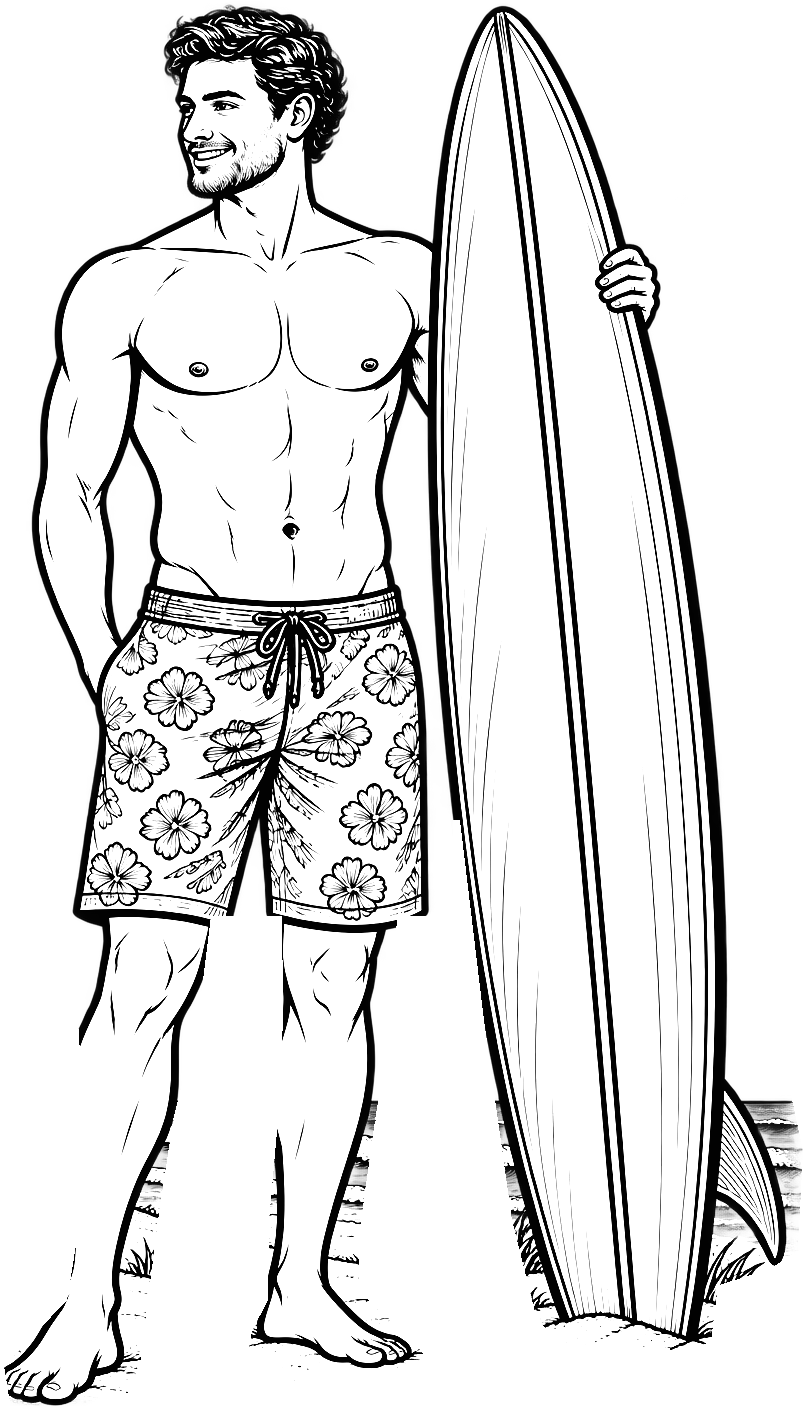
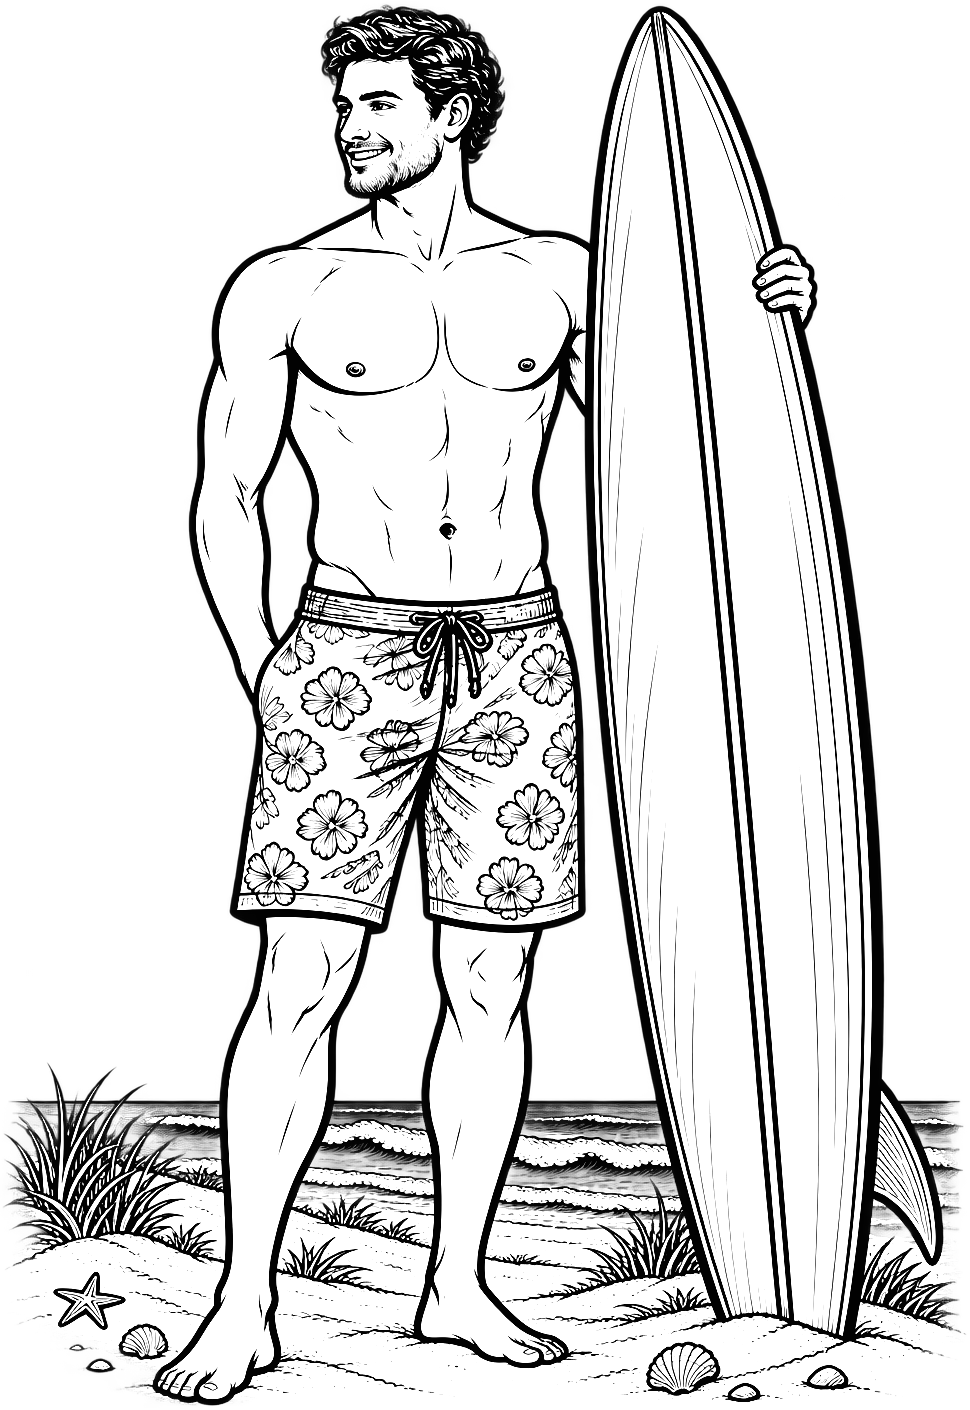
feat: the surfer and lifeguard stand drawn whole, stand upright
Both drawings are used whole from Codex's PNGs (their beach included),
the surfer wider beside the knob, and the stand loses the old stencil's
8° tilt.

Claude-Session: https://claude.ai/code/session_01HZSsdkQTuoy9rc1cHMC1HG

Changed region(s): [[0.0, 0.0, 0.9913, 0.9986], [0.031, 0.2809, 0.0929, 0.4681], [0.062, 0.1872, 0.1239, 0.2809]]

diff --git a/src/components/beachmag/shell.css b/src/components/beachmag/shell.css
@@ -1236,8 +1236,8 @@ section#sandbox .sandbox-heading {
   align-self: end;
   justify-self: center;
   width: 100%;
-  max-width: 230px;
-  aspect-ratio: 807 / 1410;
+  max-width: 300px;
+  aspect-ratio: 970 / 1410;
   color: var(--ink);
   opacity: 0.55;
 }
@@ -1618,7 +1618,8 @@ section#sandbox .sandbox-heading {
    CSS stencil's spot (position, tilt and layer come from the design). */
 #coastal-art .lifeguard-drawing.beach-figure {
   width: 340px;
-  height: 360px;
+  height: 400px;
+  transform: none;
   opacity: 0.2;
 }
 
